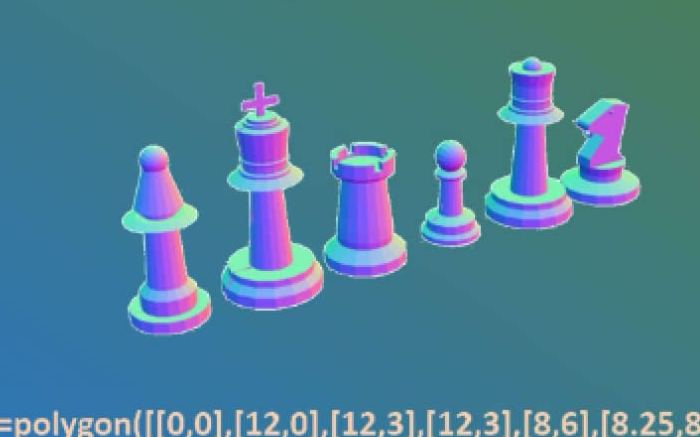
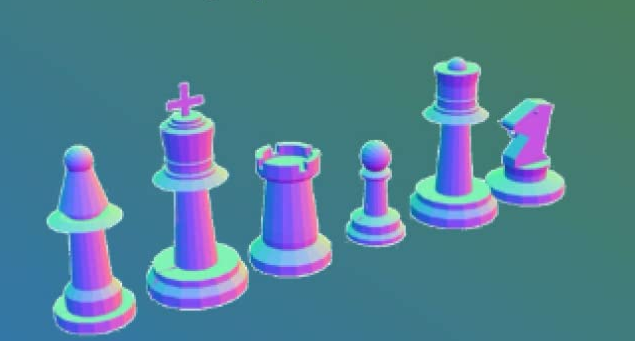
Research: tighter book thumbnail crop (trim bottom code + left margin); cache-bust

diff --git a/research.html b/research.html
@@ -120,7 +120,7 @@
       </div>
 
       <div class="pub-row" id="visual-programming">
-        <a class="pub-thumb" href="/images/pub-book.jpg" target="_blank"><img src="/images/pub-book.png" alt="A Visual Approach to Programming cover" /></a>
+        <a class="pub-thumb" href="/images/pub-book.jpg" target="_blank"><img src="/images/pub-book.png?v=2" alt="A Visual Approach to Programming cover" /></a>
         <div class="pub-body">
           <h3 class="pub-title" role="button" tabindex="0" onclick="this.closest(&#39;.pub-row&#39;).classList.toggle(&#39;open&#39;)">A Visual Approach to Programming for Middle and High School Students</h3>
           <p class="block-meta">Textbook &middot; ISBN 979-8470081841</p>
